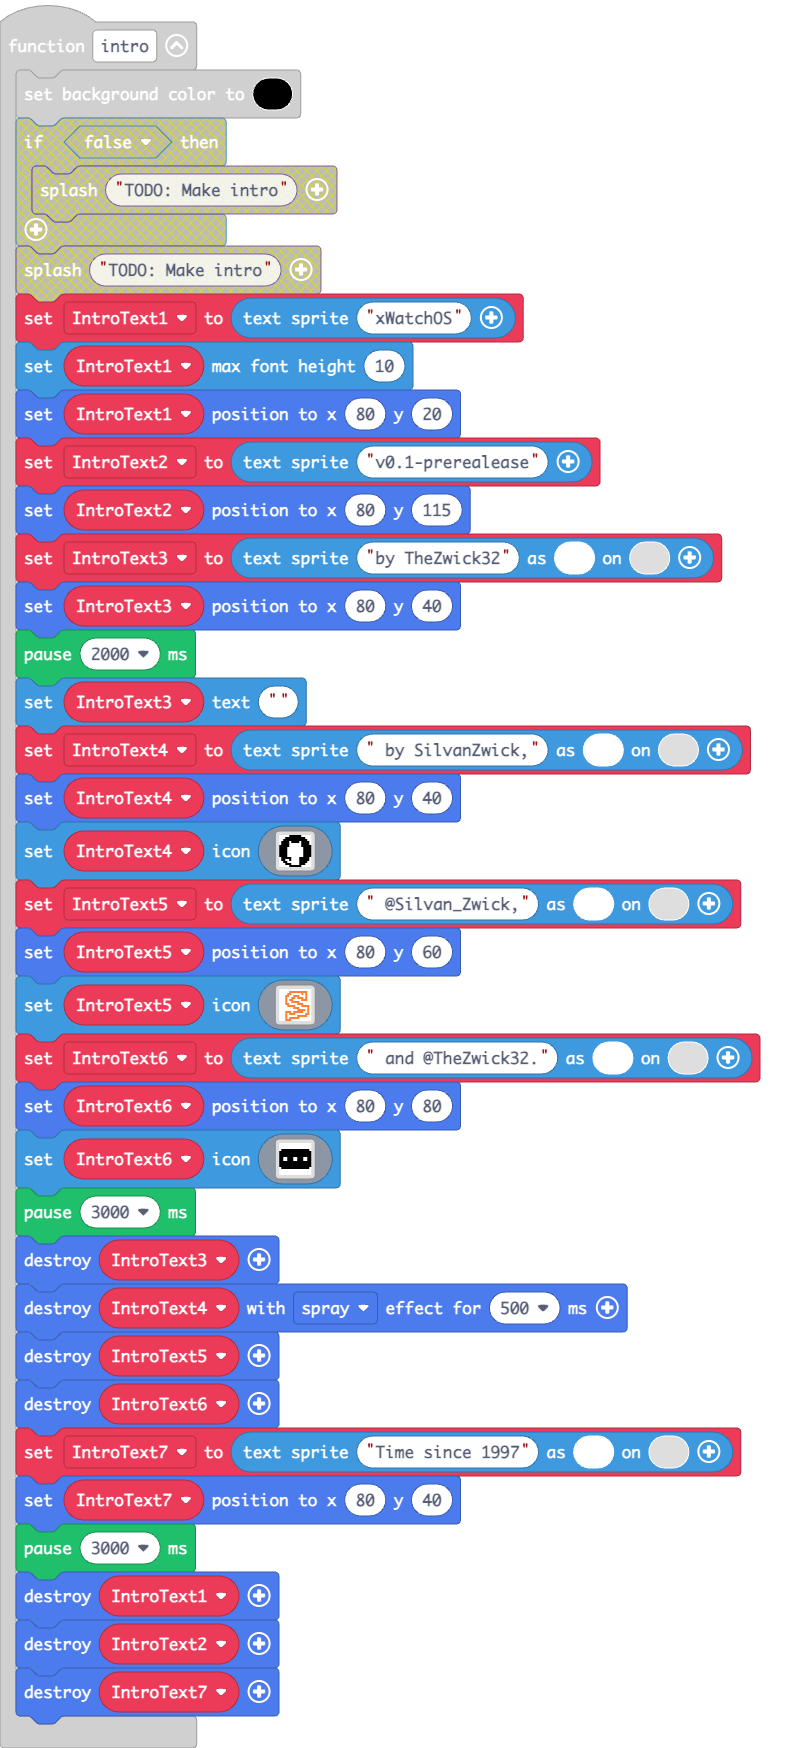
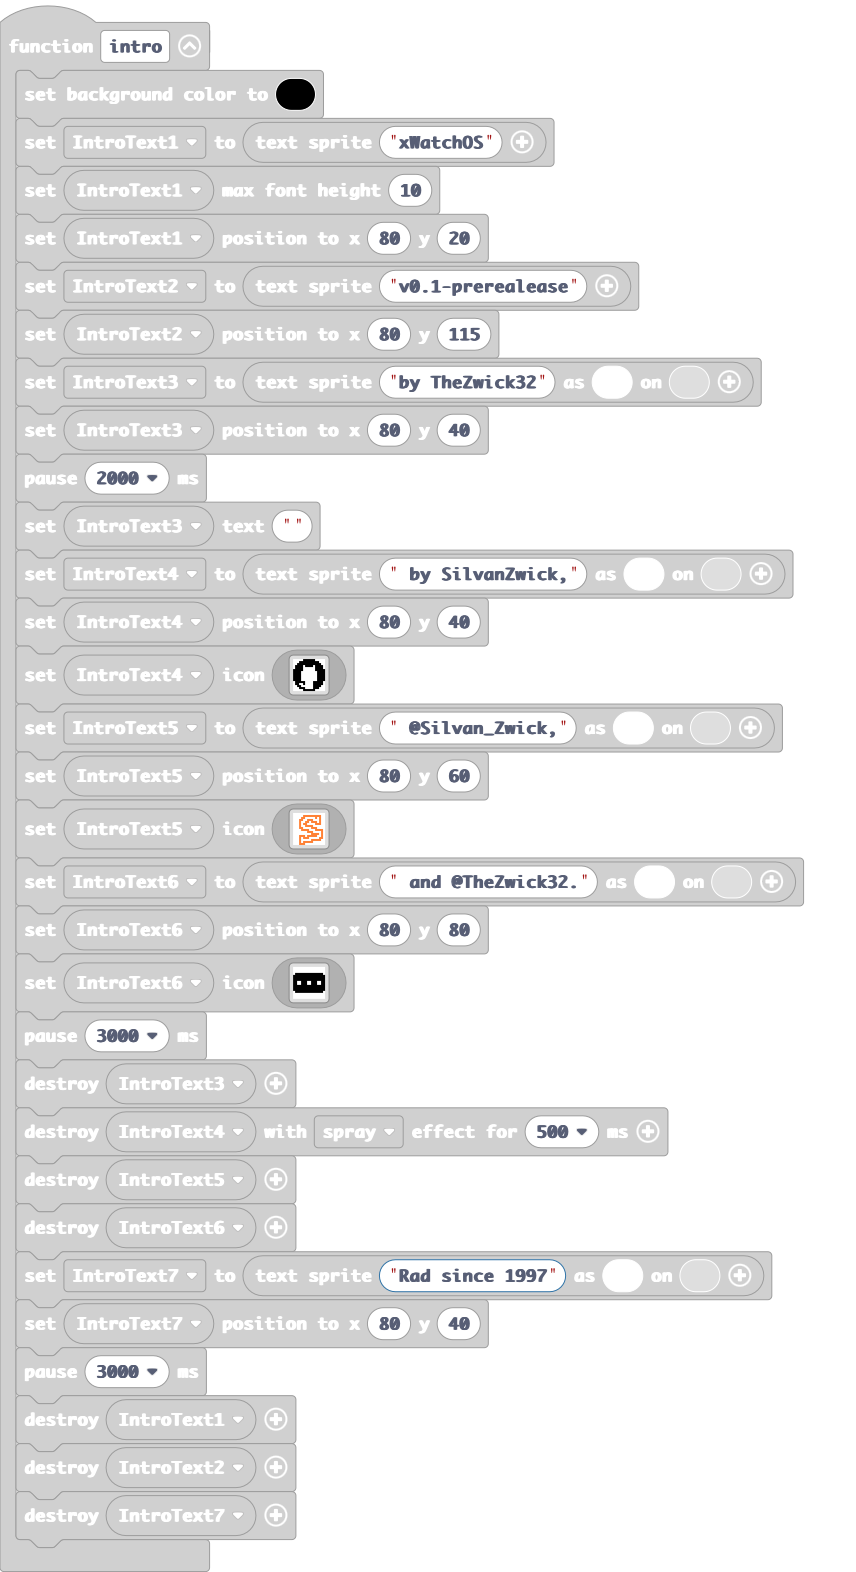
Rad

diff --git a/main.ts b/main.ts
@@ -23,7 +23,7 @@ function intro () {
     IntroText4.destroy()
     IntroText5.destroy()
     IntroText6.destroy()
-    IntroText7 = textsprite.create("Time since 1997")
+    IntroText7 = textsprite.create("Rad since 1997")
     IntroText7.setPosition(80, 40)
     pause(3000)
     IntroText1.destroy()
